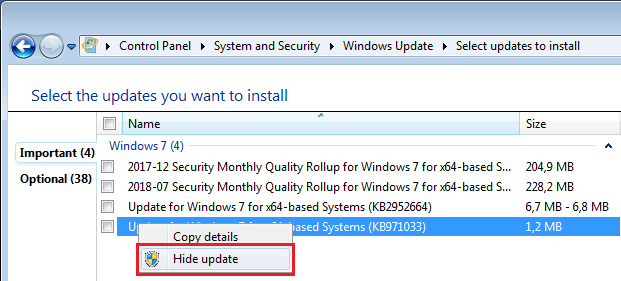
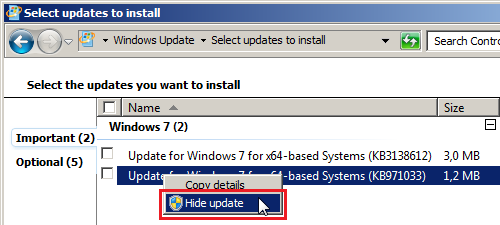
Update README

diff --git a/.github/README.md b/.github/README.md
@@ -1,0 +1,123 @@
+<h1 align="center">
+  <br>
+  <img src="./images/logo.png" alt="Teleme7ry"></a>
+  <br>
+  TELEME7RY
+  <br>
+</h1>
+
+<h4 align="center">Automated batch script to disable telemetry in Windows 7.</h4>
+
+<p align="center">
+  <a href="#about">About</a> •
+  <a href="#getting-started">Getting Started</a> •
+  <a href="#download">Download</a> •
+  <a href="#bugs-issues">Issues</a> •
+  <a href="#credits">Credits</a> •
+  <a href="#license">License</a>
+</p>
+
+## About
+
+This batch script will remove telemetry-related Tasks, Services and Updates (nagware updates as well).
+
+It will also block [telemetry domains and IPs](https://github.com/Strappazzon/teleme7ry/blob/master/rules.txt).
+
+For more details refer to [the Wiki](https://github.com/Strappazzon/teleme7ry/wiki).
+
+## Getting Started
+
+> #### ⚠ WARNING
+>
+> Before you proceed, please make sure that:
+>
+> - Windows Update DOES NOT install updates automatically.
+> - hosts is not write protected. Some antivirus products make it read-only.
+> - You have read this README.
+
+Run **teleme7ry.bat** with elevated privileges.
+
+Teleme7ry will run some checks and if they are successful you will be presented with this display:
+
+![Teleme7ry](./images/Preview.png)
+
+Here's a description of each task:
+
+- 1\. **Create a restore point**
+  - A system restore point with the name "**Teleme7ry vX.Y**" will be created.
+    - Make sure that System Restore is On otherwise the task will fail.
+- 2\. **Stop and delete telemetry services**
+  - Telemetry services will be stopped and deleted. You can see the full list [here](https://github.com/Strappazzon/teleme7ry/wiki/Telemetry-Services).
+- 3\. **Delete telemetry tasks**
+  - Telemetry tasks will be deleted. You can see the full list [here](https://github.com/Strappazzon/teleme7ry/wiki/Telemetry-Tasks).
+- 4\. **Block telemetry domains and IPs**
+  - Teleme7ry rules will be merged with the hosts file. You can see all the rules [here](https://github.com/Strappazzon/teleme7ry/blob/master/rules.txt).
+  - Duplicate lines inside the hosts file, if any, will be removed (due to limitations, this includes hosts entries that have nothing to do with telemetry).
+- 5\. **Uninstall telemetry and nagware updates**
+  - Telemetry and Nagware updates will be uninstalled. You can see the full list [here](https://github.com/Strappazzon/teleme7ry/wiki/Telemetry-and-Nagware-Updates).
+  - Your computer will be restarted aftwerwards.
+- A *(case insensitive)*. **Automatic mode: Perform all of the above tasks**
+  - The script will go through every task above, in order.
+- Q *(case insensitive)*. **Quit**
+  - The script will quit without making changes to the system.
+
+> #### 🔵 ATTENTION
+>
+> Remember to hide the updates uninstalled by Teleme7ry.
+>
+> Press **Win + R**, type **control** and hit enter. The Control Panel will show up.
+>
+> Navigate to **System and Security** > **Windows Update** > **Check for Updates** and hide all the updates listed [here](https://github.com/Strappazzon/teleme7ry/wiki/Telemetry-and-Nagware-Updates), under **Important** and **Optional**.
+
+![Hide Updates](./images/Hide_Updates.png)
+
+## Download
+
+You can [download](https://github.com/Strappazzon/teleme7ry/releases/latest) the latest version of Teleme7ry from the Releases page.
+
+## Bugs? Issues?
+
+But also suggestions? New ideas?
+
+Please create an [issue on GitHub](https://github.com/Strappazzon/teleme7ry/issues).
+
+## Credits
+
+- Updates, Hosts, Services and Tasks
+  - <https://superuser.com/a/972506>
+  - <https://www.ghacks.net/2017/02/11/blocking-telemetry-in-windows-7-and-8-1/>
+  - <https://deskroll.com/blog/article.php?id=Privacy_In_Windows_7_%E2%80%93_How_To_Disable_Telemetry_Data_Collection>
+  - <https://github.com/10se1ucgo/DisableWinTracking/issues/371>
+  - <https://github.com/10se1ucgo/DisableWinTracking/blob/master/dwt_util.py#L138>
+  - <https://www.howtogeek.com/408556/how-to-avoid-windows-7s-end-of-support-nags/>
+  - <https://www.ghacks.net/2019/09/11/windows-september-2019-updates-more-search-woes-and-telemetry/>
+  - <https://www.askwoody.com/forums/topic/september-patch-tuesday-rolling-out/>
+  - <https://www.getblackbird.net/blacklist/updates/>
+- Logo
+  - <https://icons8.com/icons/set/filter>
+
+## License
+
+```
+MIT License
+
+Copyright (c) 2019 Alberto Strappazzon
+
+Permission is hereby granted, free of charge, to any person obtaining a copy
+of this software and associated documentation files (the "Software"), to deal
+in the Software without restriction, including without limitation the rights
+to use, copy, modify, merge, publish, distribute, sublicense, and/or sell
+copies of the Software, and to permit persons to whom the Software is
+furnished to do so, subject to the following conditions:
+
+The above copyright notice and this permission notice shall be included in all
+copies or substantial portions of the Software.
+
+THE SOFTWARE IS PROVIDED "AS IS", WITHOUT WARRANTY OF ANY KIND, EXPRESS OR
+IMPLIED, INCLUDING BUT NOT LIMITED TO THE WARRANTIES OF MERCHANTABILITY,
+FITNESS FOR A PARTICULAR PURPOSE AND NONINFRINGEMENT. IN NO EVENT SHALL THE
+AUTHORS OR COPYRIGHT HOLDERS BE LIABLE FOR ANY CLAIM, DAMAGES OR OTHER
+LIABILITY, WHETHER IN AN ACTION OF CONTRACT, TORT OR OTHERWISE, ARISING FROM,
+OUT OF OR IN CONNECTION WITH THE SOFTWARE OR THE USE OR OTHER DEALINGS IN THE
+SOFTWARE.
+```
